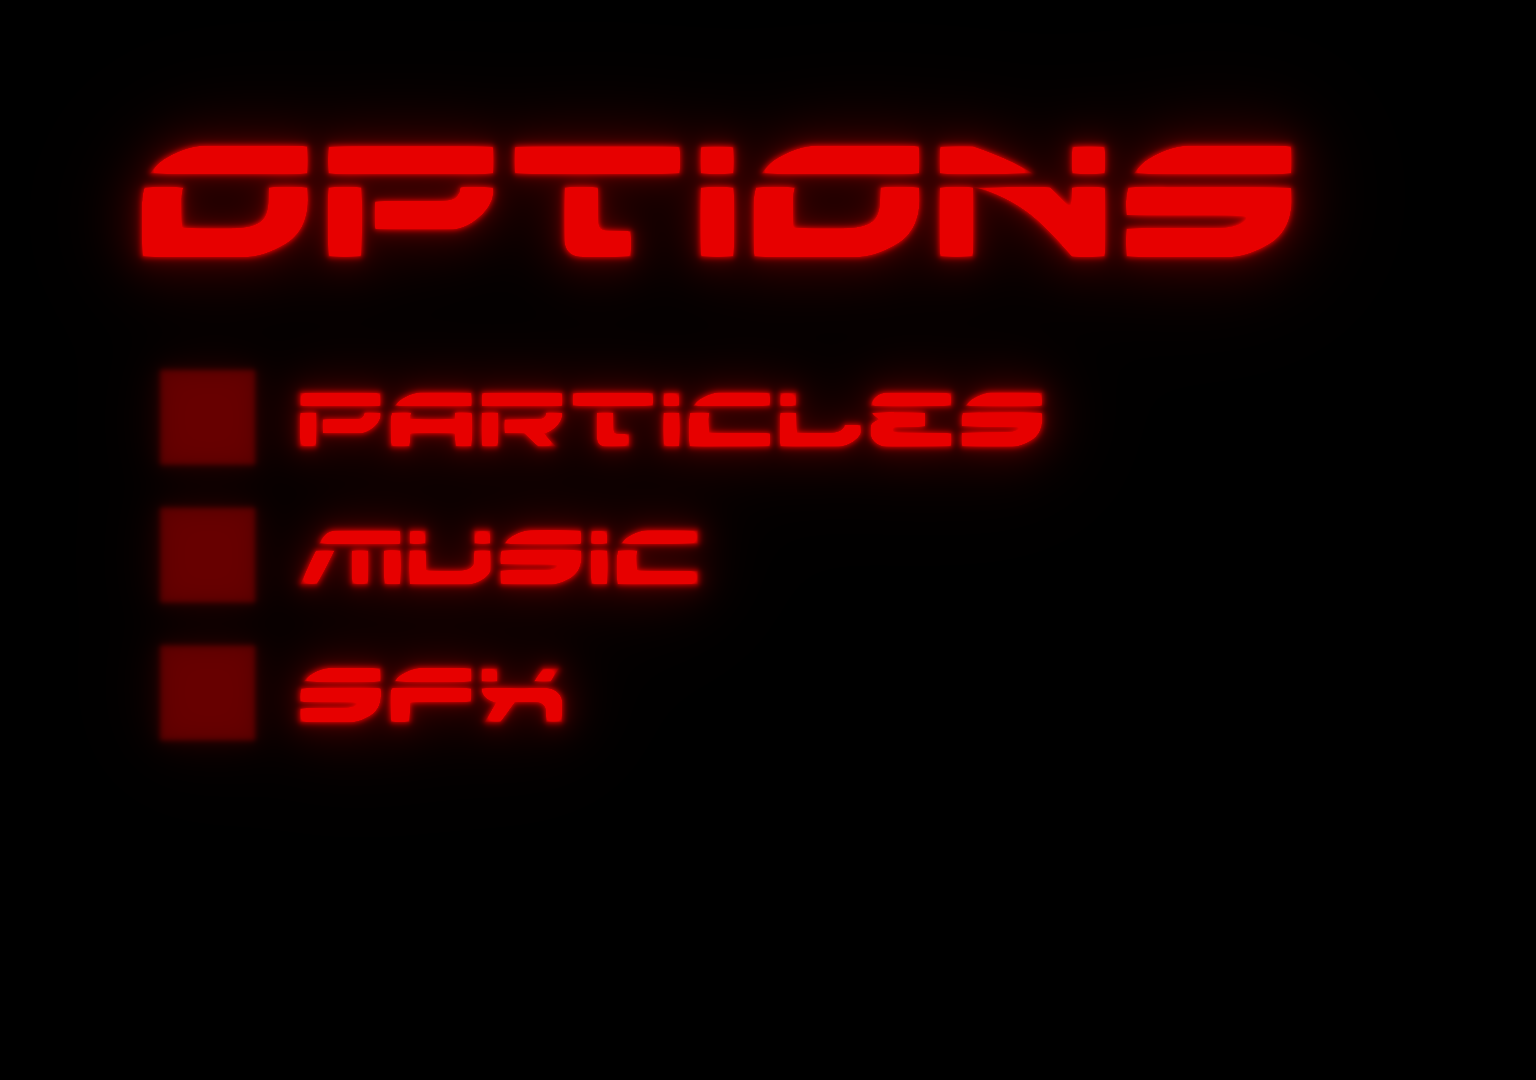
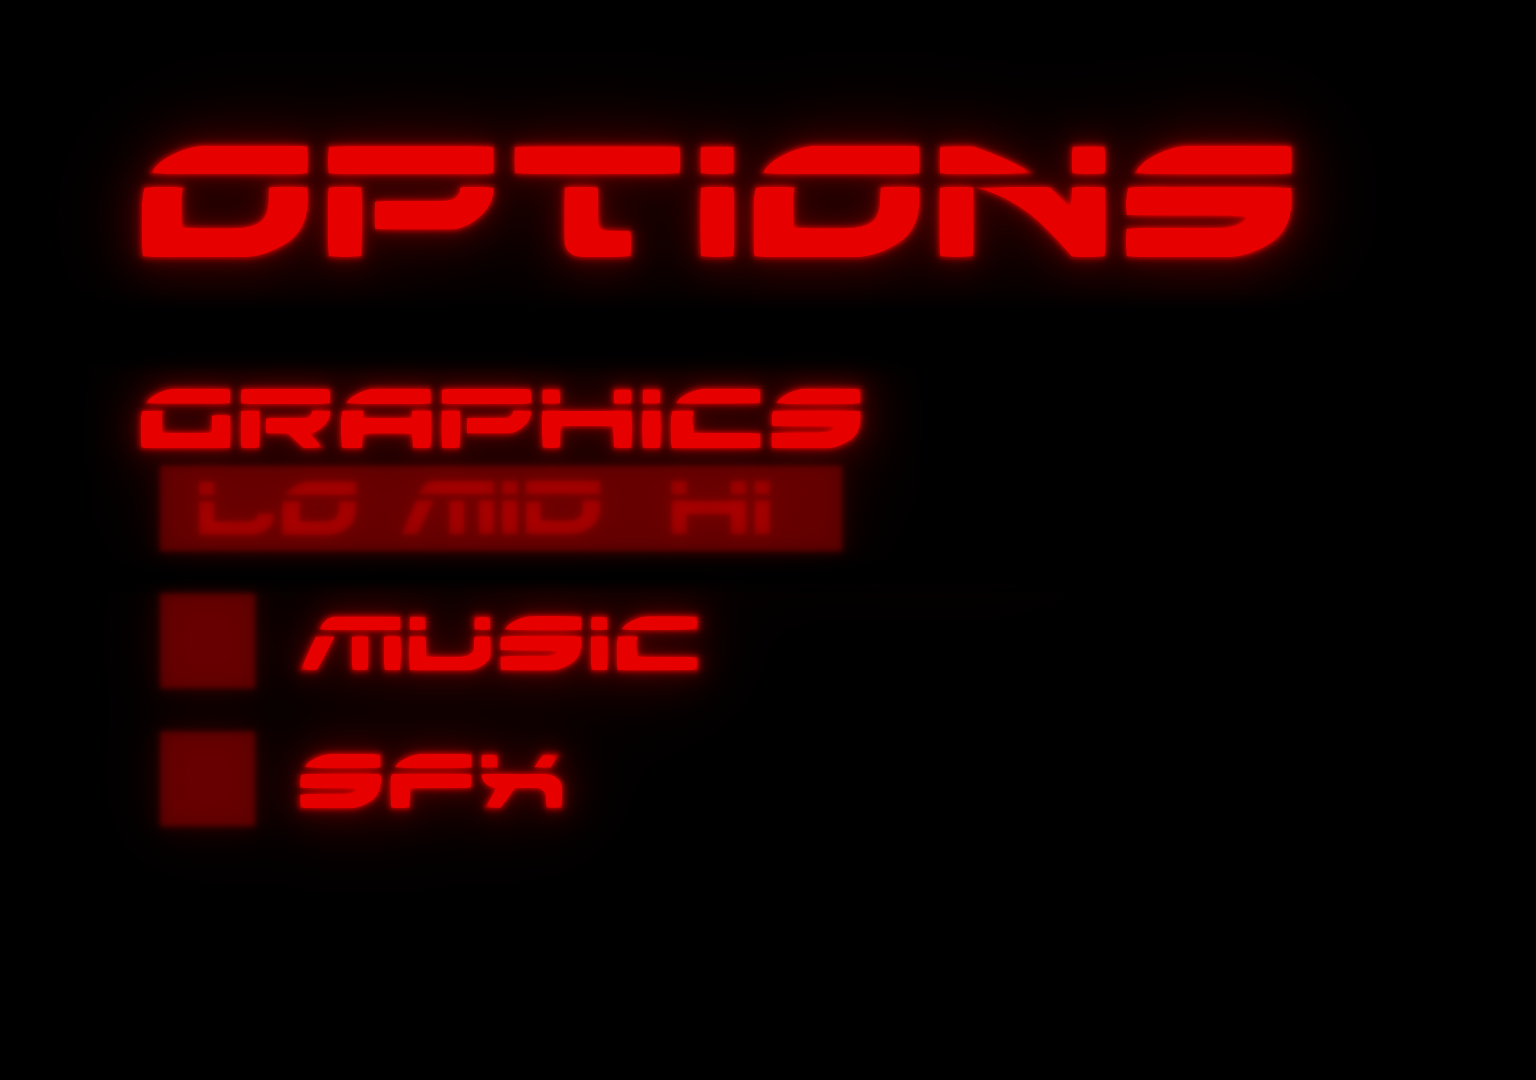
Enabled buttons for new optionstate design

Changed region(s): [[0.0625, 0.3361, 0.6875, 0.7944]]

diff --git a/core/src/com/tint/specular/input/SettingsInputProcessor.java b/core/src/com/tint/specular/input/SettingsInputProcessor.java
@@ -11,13 +11,14 @@ import com.tint.specular.utils.Util;
 public class SettingsInputProcessor extends InputAdapter { 
   
     private Specular game; 
-    private boolean soundsMuted = true, musicMuted = true, particlesEnabled = true, backBtnPressed, controlsPressed, daeronPressed, warriyoPressed;
+    private boolean soundsMuted = true, musicMuted = true, backBtnPressed, controlsPressed, daeronPressed, warriyoPressed;
+    private int graphics;
       
     public SettingsInputProcessor(Specular game) {
         this.game = game; 
         soundsMuted = Specular.prefs.getBoolean("SoundsMuted");
         musicMuted = Specular.prefs.getBoolean("MusicMuted");
-        particlesEnabled = Specular.prefs.getBoolean("Particles");
+        graphics = Specular.prefs.getInteger("Graphics");
     }
     
     @Override
@@ -59,12 +60,23 @@ public class SettingsInputProcessor extends InputAdapter {
         float touchpointx = (float) Gdx.input.getX() / Gdx.graphics.getWidth() * Specular.camera.viewportWidth; 
         float touchpointy = (float) Gdx.input.getY() / Gdx.graphics.getHeight() * Specular.camera.viewportHeight; 
           
-        // Particles 
-        if(Util.isTouching(touchpointx, touchpointy, 160, 1080 - 720 + Specular.camera.viewportHeight - 1080, 880, 128, false)) { 
-            particlesEnabled = !particlesEnabled; 
-        } 
+        // Low-Graphics
+        if(Util.isTouching(touchpointx, touchpointy, 160, 1080 - 630 + Specular.camera.viewportHeight - 1080, 225, 128, false)) { 
+        	graphics = 0;
+        }
+        
+        // Medium-Graphics
+        else if(Util.isTouching(touchpointx, touchpointy, 385, 1080 - 630 + Specular.camera.viewportHeight - 1080, 250, 128, false)) {
+        	graphics = 1;
+        }
+        
+        // High-Graphics
+        else if(Util.isTouching(touchpointx, touchpointy, 635, 1080 - 630 + Specular.camera.viewportHeight - 1080, 205, 128, false)) {
+        	graphics = 2;
+        }
+        
         // Music 
-        else if(Util.isTouching(touchpointx, touchpointy, 160, 1080 - 575 + Specular.camera.viewportHeight - 1080, 550, 128, false)) {
+        else if(Util.isTouching(touchpointx, touchpointy, 160, 1080 - 490 + Specular.camera.viewportHeight - 1080, 550, 128, false)) {
             musicMuted = !musicMuted;
             if(musicMuted)
             	((MainmenuState) game.getState(States.MAINMENUSTATE)).stopMusic();
@@ -72,7 +84,7 @@ public class SettingsInputProcessor extends InputAdapter {
             	((MainmenuState) game.getState(States.MAINMENUSTATE)).startMusic();
         } 
         // Sound 
-        else if(Util.isTouching(touchpointx, touchpointy, 160, 1080 - 440 + Specular.camera.viewportHeight - 1080, 410, 128, false))
+        else if(Util.isTouching(touchpointx, touchpointy, 160, 1080 - 350 + Specular.camera.viewportHeight - 1080, 410, 128, false))
             soundsMuted = !soundsMuted; 
 
         // Controls
@@ -110,23 +122,23 @@ public class SettingsInputProcessor extends InputAdapter {
         
         warriyoPressed = Util.isTouching(touchpointx, touchpointy, Specular.camera.viewportWidth - 650, Specular.camera.viewportHeight - 450, 500, 110, false);
         return false; 
-    } 
+    }
+    
+    public int getGraphicsSettings() {
+    	return graphics;
+    }
       
     public boolean musicMuted() { 
         return musicMuted; 
-    } 
+    }
       
     public boolean soundsMuted() { 
         return soundsMuted; 
-    } 
-      
-    public boolean particlesEnabled() { 
-        return particlesEnabled; 
-    } 
+    }
       
     public boolean backPressed() { 
         return backBtnPressed; 
-    } 
+    }
       
     public boolean controlsPressed() { 
         return controlsPressed; 
@@ -138,5 +150,5 @@ public class SettingsInputProcessor extends InputAdapter {
 
 	public boolean isWarriyoPressed() {
 		return warriyoPressed;
-	} 
+	}
 }

diff --git a/core/src/com/tint/specular/states/SettingsMenuState.java b/core/src/com/tint/specular/states/SettingsMenuState.java
@@ -10,13 +10,14 @@ public class SettingsMenuState extends State {
 
 //	private Texture background;
 	private boolean rendered;
-	private Texture background, selected, back, backPressed, controls, controlsPressed, daeron, daeronPressed, warriyo, warriyoPressed, artists;
+	private Texture background, selected, selectedGraphics, back, backPressed, controls, controlsPressed, daeron, daeronPressed, warriyo, warriyoPressed, artists;
 	private SettingsInputProcessor processor;
 	
 	public SettingsMenuState(Specular game) {
 		super(game);
 		background = new Texture(Gdx.files.internal("graphics/menu/settingsmenu/Options.png"));
 		selected = new Texture(Gdx.files.internal("graphics/menu/settingsmenu/Selected.png"));
+		selectedGraphics = new Texture(Gdx.files.internal("graphics/menu/settingsmenu/Graphics Select.png"));
 		back = new Texture(Gdx.files.internal("graphics/menu/highscore/Back.png"));
 		backPressed = new Texture(Gdx.files.internal("graphics/menu/highscore/Back Pressed.png"));
 		controls = new Texture(Gdx.files.internal("graphics/menu/settingsmenu/Controls.png"));
@@ -47,12 +48,17 @@ public class SettingsMenuState extends State {
 		
 		game.batch.draw(artists, 1050, 570);
 		
-		if(processor.particlesEnabled())
-			game.batch.draw(selected, 142, 600);
+		if(processor.getGraphicsSettings() == 0)
+			game.batch.draw(selectedGraphics, 145, 510);
+		else if(processor.getGraphicsSettings() == 1)
+			game.batch.draw(selectedGraphics, 375, 510);
+		else if(processor.getGraphicsSettings() == 2)
+			game.batch.draw(selectedGraphics, 600, 510);
+		
 		if(!processor.musicMuted())
-			game.batch.draw(selected, 142, 460);
+			game.batch.draw(selected, 142, 375);
 		if(!processor.soundsMuted())
-			game.batch.draw(selected, 142, 323);
+			game.batch.draw(selected, 142, 236);
 		
 		// Back button
 		if(!processor.backPressed())
@@ -98,7 +104,7 @@ public class SettingsMenuState extends State {
 		super.hide();
 		Specular.prefs.putBoolean("SoundsMuted", processor.soundsMuted()); 
         Specular.prefs.putBoolean("MusicMuted", processor.musicMuted()); 
-        Specular.prefs.putBoolean("Particles", processor.particlesEnabled()); 
+        Specular.prefs.putInteger("Graphics", processor.getGraphicsSettings()); 
         Specular.prefs.flush(); 
 	}
 }
